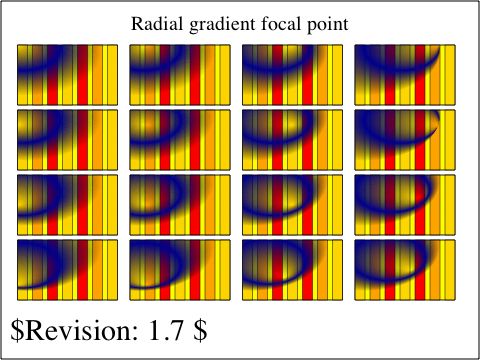
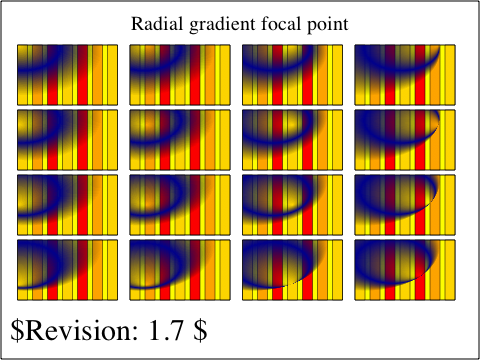
2009-12-04  Dirk Schulze  <krit@webkit.org>
Reviewed by Nikolas Zimmermann.

        Gradient SVG animation demonstrates tearing at animation extremes
        https://bugs.webkit.org/show_bug.cgi?id=11929

        The focalPoint of a radial gradient is temporarly substracted by
        the centralPoint, if the focalPoint is not in the radius of the
        gradient. This is needed to calculate a new postion of the focalPoint
        according to the specification. But the new focalPoint needs to be
        moved by the centralPoint after this calculation, which is not the case
        at the moment. This patch fixes this issue. It was also introduced a
        deviation of maximal 0.2% for Cairo to get around the fixed point numbers
        in Cairo.

        W3C-SVG-1.1/pservers-grad-13-b needed an update. The missing adjustment
        of the new focalPoint caused wrong results for the last three tests.

        Test: svg/custom/radial-gradient-with-outstanding-focalPoint.svg

        * svg/SVGRadialGradientElement.cpp:
        (WebCore::SVGRadialGradientElement::buildGradient):

        Gradient SVG animation demonstrates tearing at animation extremes
        https://bugs.webkit.org/show_bug.cgi?id=11929

        In SVG a focalPoint must be inside the radius of a radial gradient.
        It this isn't the case, we have to move the focalPoint into the radius.
        This checks the correct behavior of WebKit on false values for fx, fy.

        * platform/mac/svg/W3C-SVG-1.1/pservers-grad-13-b-expected.checksum:
[…]

Changed region(s): [[0.5, 0.6722, 0.6875, 0.825], [0.7188, 0.6722, 0.9062, 0.825], [0.75, 0.4889, 0.9375, 0.6111]]

diff --git a/WebCore/svg/SVGRadialGradientElement.cpp b/WebCore/svg/SVGRadialGradientElement.cpp
@@ -105,23 +105,37 @@ void SVGRadialGradientElement::buildGradient() const
         radius = attributes.r().value(this);
     }
 
-    float adjustedFocusX = focalPoint.x();
-    float adjustedFocusY = focalPoint.y();
-
-    float fdx = focalPoint.x() - centerPoint.x();
-    float fdy = focalPoint.y() - centerPoint.y();
+    FloatPoint adjustedFocalPoint = focalPoint;
+    float dfx = focalPoint.x() - centerPoint.x();
+    float dfy = focalPoint.y() - centerPoint.y();
 
     // Spec: If (fx, fy) lies outside the circle defined by (cx, cy) and
     // r, set (fx, fy) to the point of intersection of the line through
     // (fx, fy) and the circle.
-    if (sqrt(fdx * fdx + fdy * fdy) > radius) {
-        float angle = atan2f(focalPoint.y() * 100.0f, focalPoint.x() * 100.0f);
-        adjustedFocusX = cosf(angle) * radius;
-        adjustedFocusY = sinf(angle) * radius;
+    if (sqrt(dfx * dfx + dfy * dfy) >= radius) {
+        float angle = atan2f(dfx, dfy);
+
+        // The maximum deviation of 0.2% is needed on Cairo, since Cairo
+        // is working with fixed point numbers.
+#if PLATFORM(CAIRO)
+        if (focalPoint.x() < centerPoint.x())
+            dfx = cosf(angle) * radius + 0.002f;
+        else
+            dfx = cosf(angle) * radius - 0.002f;
+        if (focalPoint.y() < centerPoint.y())
+            dfy = sinf(angle) * radius + 0.002f;
+        else
+            dfy = sinf(angle) * radius - 0.002f;
+#else
+        dfx = cosf(angle) * radius;
+        dfy = sinf(angle) * radius;
+#endif
+
+        adjustedFocalPoint = FloatPoint(dfx + centerPoint.x(), dfy + centerPoint.y());
     }
 
     RefPtr<Gradient> gradient = Gradient::create(
-        FloatPoint(adjustedFocusX, adjustedFocusY),
+        adjustedFocalPoint,
         0.f, // SVG does not support a "focus radius"
         centerPoint,
         radius);
